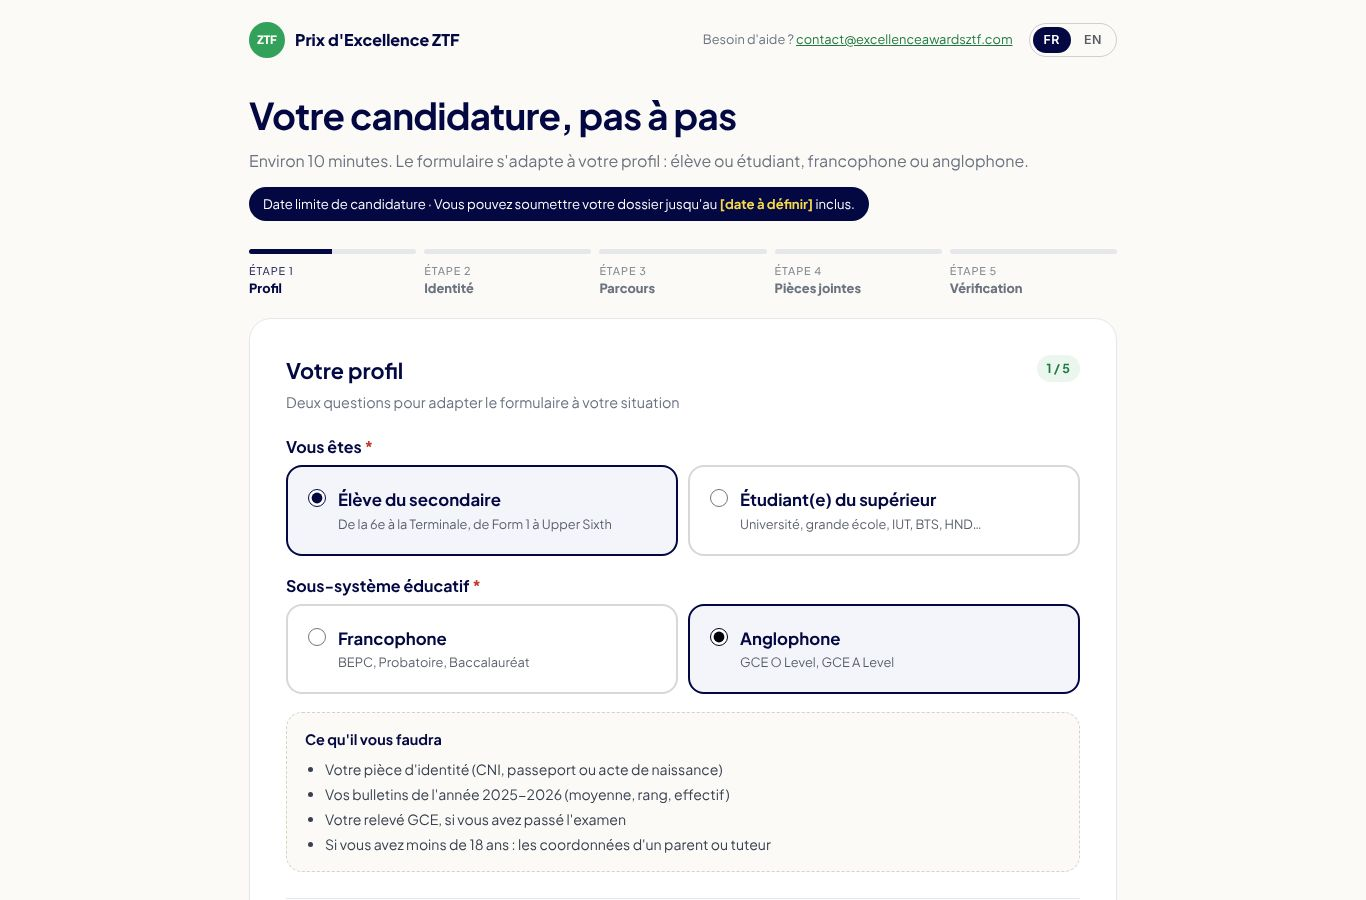
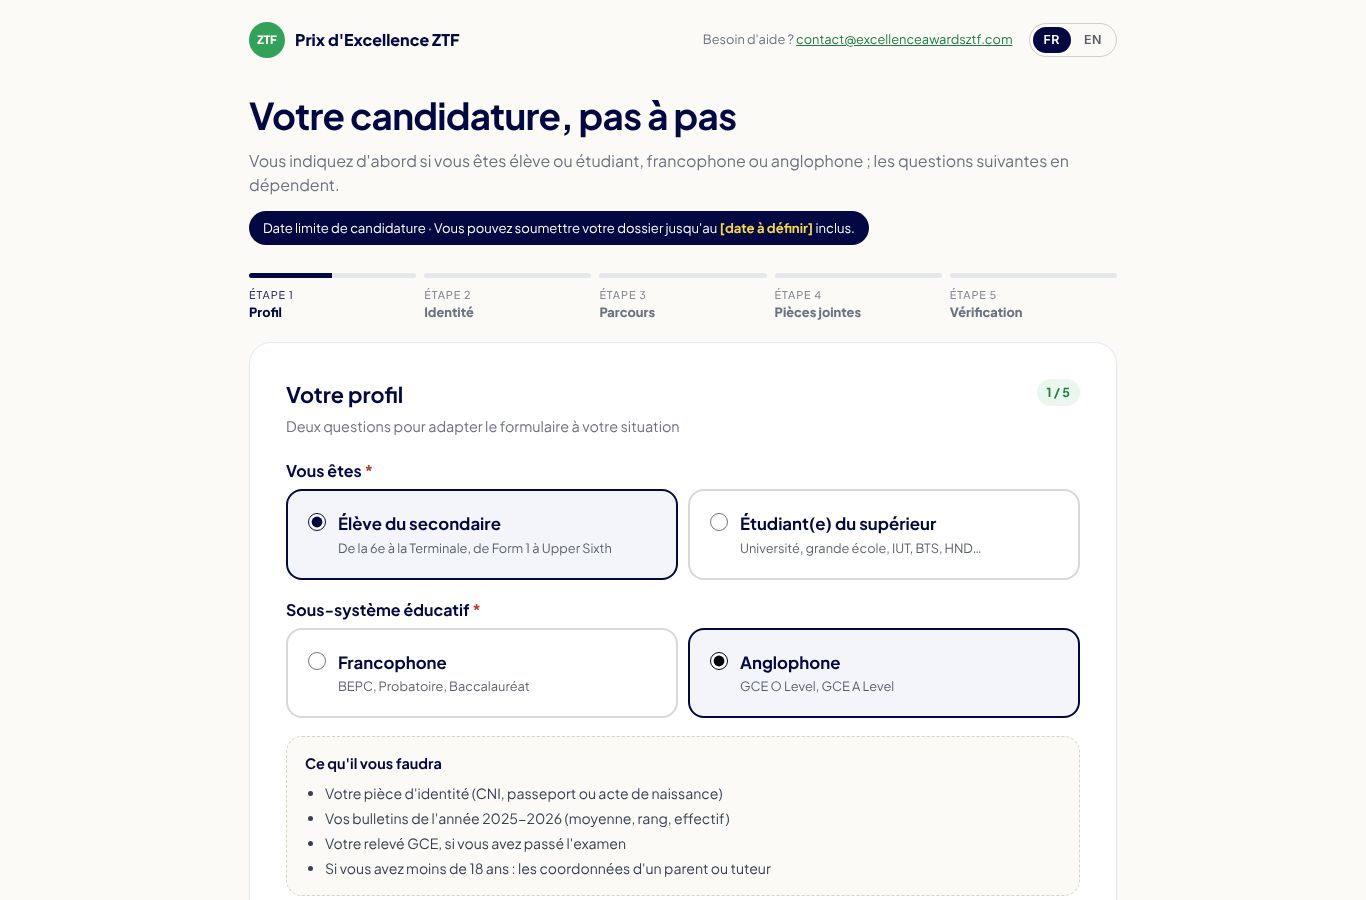
Sépare le dépôt des relevés de notes et relit les textes
- Nouveau champ obligatoire « Relevés de notes et bulletins », distinct
  du champ facultatif « Diplômes et relevés d'examens officiels »
- Dossiers de démonstration avec bulletins trimestriels / semestriels
- Relecture des textes : retrait d'une durée non sourcée, d'un slogan
  et d'étiquettes vagues dans la galerie

Claude-Session: https://claude.ai/code/session_01Mcbiq1fq7jBpc2oKkKSYz2

diff --git a/maquettes/index.html b/maquettes/index.html
@@ -31,7 +31,7 @@ main{padding:30px 16px 60px}
 </head>
 <body>
 <header><div class="in">
-  <div class="k">Fondation Zacharias Tanee Fomum · version 2</div>
+  <div class="k">Fondation Zacharias Tanee Fomum · version 3</div>
   <h1>Formulaire de candidature au Prix ZTF : 5 maquettes</h1>
   <p>Mêmes champs et même ordre que le formulaire de référence <em>africaexcellenceawards.org/candidature</em>, adaptés au Cameroun selon vos réponses. Les 5 maquettes demandent exactement les mêmes informations ; seules la mise en page et l'expérience changent.</p>
 </div></header>
@@ -43,6 +43,7 @@ main{padding:30px 16px 60px}
       <li><strong>Secondaire et supérieur</strong> : pour un élève, « Niveau » devient « Classe » (6e → Terminale ou Form 1 → Upper Sixth), « Domaine d'études » devient « Série / filière », et le classement porte sur la classe.</li>
       <li><strong>Sous-système francophone / anglophone</strong> : un élève anglophone indique en plus son dernier examen GCE et ses grades.</li>
       <li><strong>Mineurs</strong> : âge minimum abaissé à 9 ans ; sous 18 ans, un bloc « Parent ou tuteur légal » apparaît (lien, nom, téléphone, e-mail facultatif, autorisation).</li>
+      <li><strong>Relevés de notes</strong> : un champ de dépôt à part, obligatoire, pour les relevés et bulletins de l'année. Les diplômes et relevés d'examens officiels (BEPC, Bac, GCE…) ont leur propre champ, facultatif.</li>
       <li><strong>Bilingue</strong> : bouton FR / EN sur toutes les maquettes ; la maquette 3 affiche les deux langues en même temps.</li>
     </ul>
   </div>
@@ -54,7 +55,7 @@ main{padding:30px 16px 60px}
     <a class="card" href="2-parcours-guide.html"><img src="apercus/2-parcours-guide.jpg" alt="Aperçu maquette 2"><div class="b">
       <h2><span>2.</span> Parcours guidé</h2>
       <p>On commence par le profil (élève ou étudiant, francophone ou anglophone) : le formulaire filtre ensuite les établissements et annonce les pièces à préparer. 5 étapes, récapitulatif avec « Modifier » avant l'envoi.</p>
-      <div class="tags"><span>Profil d'abord</span><span>Moins d'erreurs</span><span>Rassurant pour les jeunes</span></div></div></a>
+      <div class="tags"><span>Profil d'abord</span><span>5 étapes</span><span>Récapitulatif avant envoi</span></div></div></a>
     <a class="card" href="3-bilingue-officiel.html"><img src="apercus/3-bilingue-officiel.jpg" alt="Aperçu maquette 3"><div class="b">
       <h2><span>3.</span> Bilingue officiel</h2>
       <p>Une fiche de candidature au format administratif, avec chaque libellé en français et en anglais côte à côte, comme les documents officiels camerounais. Pas de bouton de langue : tout le monde lit la même fiche.</p>
@@ -65,14 +66,14 @@ main{padding:30px 16px 60px}
       <div class="tags"><span>Smartphone</span><span>Connexions lentes</span><span>Type application</span></div></div></a>
     <a class="card" href="5-prestige.html"><img src="apercus/5-prestige.jpg" alt="Aperçu maquette 5"><div class="b">
       <h2><span>5.</span> Prestige « cérémonie »</h2>
-      <p>Bleu nuit et or, typographie à empattements, sommaire latéral en chiffres romains, chiffres clés du prix et anneau de progression : l'esprit de la cérémonie de remise des prix.</p>
-      <div class="tags"><span>Haut de gamme</span><span>Valorise le prix</span><span>Grand écran</span></div></div></a>
+      <p>Bleu nuit et or, typographie à empattements, sommaire latéral en chiffres romains, chiffres clés du prix et anneau de progression.</p>
+      <div class="tags"><span>Bleu nuit et or</span><span>Chiffres clés du prix</span><span>Grand écran</span></div></div></a>
   </div>
 
   <div class="note">
     <h3>À savoir pour tester</h3>
     <ul>
-      <li>En bas à gauche, <strong>« Maquette · pré-remplir »</strong> propose deux dossiers fictifs : un <em>élève anglophone mineur</em> (fait apparaître le bloc tuteur et les résultats GCE) et une <em>étudiante francophone</em>.</li>
+      <li>En bas à gauche, <strong>« Maquette · pré-remplir »</strong> propose deux dossiers fictifs : un <em>élève anglophone mineur</em> (bloc tuteur, résultats GCE, trois bulletins trimestriels) et une <em>étudiante francophone</em>.</li>
       <li>Essayez une date de naissance de moins de 18 ans, puis une catégorie du secondaire avec le sous-système anglophone : les blocs correspondants apparaissent.</li>
       <li>L'envoi est simulé : aucune donnée ne quitte le navigateur. Le captcha (Cloudflare Turnstile dans la référence) est représenté par un emplacement.</li>
       <li>La date limite est affichée « [date à définir] » : elle se règle à un seul endroit (<code>shared/form-data.js</code>).</li>

diff --git a/maquettes/shared/form-engine.js b/maquettes/shared/form-engine.js
@@ -18,7 +18,7 @@
   var both = document.documentElement.getAttribute("data-ztf-mode") === "both";
   var lang = both ? "both" : initialLang();
   var NP = { average: "average_not_provided", ranking: "ranking_not_provided", cohort_size: "cohort_size_not_provided" };
-  var form, fileStore = { idfile: [], transcripts: [], otherfiles: [] };
+  var form, fileStore = { idfile: [], transcripts: [], diplomas: [], otherfiles: [] };
 
   function initialLang() {
     var q = (location.search.match(/[?&]lang=(fr|en)\b/) || [])[1]; if (q) return q;
@@ -372,7 +372,7 @@
       { group: "1. " + tr("sec.identity"), items: g1 },
       { group: "2. " + tr("sec.academic"), items: g2 },
       { group: "3. " + tr("sec.attachments"), items: [[tr("lbl.idfile"), files("idfile")], [tr("lbl.transcripts"), files("transcripts")],
-        [tr("lbl.otherfiles"), files("otherfiles")], [tr("lbl.additional_notes"), v("additional_notes")]] }
+        [tr("lbl.diplomas"), files("diplomas")], [tr("lbl.otherfiles"), files("otherfiles")], [tr("lbl.additional_notes"), v("additional_notes")]] }
     ];
   }
   function renderRecap(target) {
@@ -426,13 +426,13 @@
       civility: "M.", last_name: "Nfor", first_name: "Divine Kum", birth: "2009-05-02", city: "Bamenda", phone: "6 75 22 11 00", email: "grace.nfor@exemple.com",
       cycle: "secondary", sub: "anglophone", cat: "Enseignement secondaire général", subcat: "Établissement privé protestant (presbytérien, baptiste, EEC…)",
       school: "Presbyterian Secondary School Mankon (Bamenda)", fos: "Sciences", level: "Upper Sixth", avg: "17.1 / 20", rank: "1 / 64", cohort: "64",
-      files: [["CNI_Nfor_Divine.pdf"], ["Report_card_Lower_Sixth_2025-2026.pdf", "GCE_O_Level_result_slip.pdf"], ["Olympiades_maths_2025.pdf"]],
+      files: [["Acte_naissance_Nfor_Divine.pdf"], ["Report_card_term1_2025-2026.pdf", "Report_card_term2_2025-2026.pdf", "Report_card_term3_2025-2026.pdf"], ["GCE_O_Level_result_slip.pdf"], ["Olympiades_maths_2025.pdf"]],
       notes: "Lauréat des Olympiades nationales de mathématiques 2025 (catégorie lycée)."
     } : {
       civility: "Mlle", last_name: "Ngo Bayiha", first_name: "Esther", birth: "2006-03-14", city: "Yaoundé", phone: "6 77 12 34 56", email: "esther.ngobayiha@exemple.com",
       cycle: "higher", sub: "francophone", cat: "Universités d'État (facultés)", subcat: "Sciences", school: "Université de Yaoundé I",
       fos: "Mathématiques", level: "BAC+2", avg: "17.4 / 20", rank: "2 / 214", cohort: "214",
-      files: [["CNI_Ngo_Bayiha.pdf"], ["Releve_L1_2025-2026.pdf", "Releve_L2_S1.pdf"], ["CV_Esther.pdf"]],
+      files: [["CNI_Ngo_Bayiha.pdf"], ["Releve_L2_S1_2025-2026.pdf", "Releve_L2_S2_2025-2026.pdf"], ["Baccalaureat_C_2024.pdf", "Releve_L1_2024-2025.pdf"], ["CV_Esther.pdf"]],
       notes: "Major de promotion en L1, lauréate des Olympiades nationales de mathématiques 2024."
     };
     el("civility").value = p.civility; el("last_name").value = p.last_name; el("first_name").value = p.first_name;
@@ -449,7 +449,7 @@
     el("level").value = p.level; el("field_of_study").value = p.fos; onLevel();
     el("average").value = p.avg; el("ranking").value = p.rank; el("cohort_size").value = p.cohort;
     if (pupil) { el("gce_exam").value = "GCE O Level"; updateDependent(); el("gce_results").value = "11 papers — 9 A (Maths, Add. Maths, Physics, Chemistry…), 2 B"; }
-    ["idfile", "transcripts", "otherfiles"].forEach(function (n, i) { fileStore[n] = p.files[i].map(fakeFile); syncInput(n); renderFiles(n); });
+    ["idfile", "transcripts", "diplomas", "otherfiles"].forEach(function (n, i) { fileStore[n] = p.files[i].map(fakeFile); syncInput(n); renderFiles(n); });
     el("additional_notes").value = p.notes;
     el("cgu").checked = true;
     allNames().concat(["cycle", "subsystem"]).forEach(clearError);

diff --git a/maquettes/shared/form-i18n.js b/maquettes/shared/form-i18n.js
@@ -92,7 +92,7 @@ window.ZTF_I18N = {
   "lbl.gce_exam": ["Dernier examen GCE passé", "Latest GCE examination taken"],
   "lbl.gce_results": ["Matières et grades obtenus", "Subjects and grades obtained"],
   "ph.gce_results": ["Ex : 9 papers — Maths A, English B, Physics A…", "e.g. 9 papers — Maths A, English B, Physics A…"],
-  "hint.gce": ["Recopiez les grades de votre relevé GCE (A à E, U) et joignez le relevé dans les pièces jointes.", "Copy the grades from your GCE result slip (A to E, U) and attach the slip below."],
+  "hint.gce": ["Recopiez les grades de votre relevé GCE (A à E, U) ; le relevé lui-même se joint dans « Diplômes et relevés d'examens officiels ».", "Copy the grades from your GCE result slip (A to E, U); attach the slip itself under “Certificates and official exam results”."],
 
   /* Listes */
   "ph.select": ["Sélectionnez", "Select"],
@@ -106,9 +106,12 @@ window.ZTF_I18N = {
   /* Pièces jointes */
   "lbl.idfile": ["Pièce d'identité (Passeport ou CNI)", "Identity document (passport or national ID card)"],
   "hint.idfile": ["Mineur sans CNI : acte de naissance. Formats acceptés : PDF, PNG, JPG.", "Minor without an ID card: birth certificate. Accepted formats: PDF, PNG, JPG."],
-  "lbl.transcripts": ["Diplômes, bulletins et relevés de notes ({year})", "Certificates, report cards and transcripts ({year})"],
+  "lbl.transcripts": ["Relevés de notes et bulletins ({year})", "Transcripts and report cards ({year})"],
   "lbl.transcripts.m": ["(avec classement si possible)", "(with ranking if possible)"],
-  "hint.transcripts": ["Seuls les documents du système éducatif camerounais sont acceptés. Anglophones : joignez aussi votre relevé GCE si vous avez passé l'examen.", "Only documents from the Cameroonian education system are accepted. Anglophone applicants: also attach your GCE result slip if you sat the exam."],
+  "hint.transcripts": ["Tous les bulletins ou relevés de l'année : trimestres pour un élève, semestres pour un étudiant. Seuls les documents du système éducatif camerounais sont acceptés.", "Every report card or transcript for the year: terms for a pupil, semesters for a student. Only documents from the Cameroonian education system are accepted."],
+  "lbl.diplomas": ["Diplômes et relevés d'examens officiels", "Certificates and official exam results"],
+  "lbl.diplomas.m": ["(si vous en avez : CEP, BEPC, Probatoire, Bac, GCE O/A Level, BTS, Licence…)", "(if you have any: CEP, BEPC, Probatoire, Bac, GCE O/A Level, BTS, Licence…)"],
+  "hint.diplomas": ["Les élèves anglophones qui ont passé le GCE joignent ici leur relevé GCE.", "Anglophone pupils who sat the GCE attach their GCE result slip here."],
   "lbl.otherfiles": ["Tout document utile complémentaire", "Any other useful document"],
   "lbl.otherfiles.m": ["(optionnel : CV, lettre de motivation, attestations, etc.)", "(optional: CV, cover letter, certificates, etc.)"],
   "lbl.additional_notes": ["Informations complémentaires (optionnel)", "Additional information (optional)"],

diff --git a/maquettes/shared/form-markup.js b/maquettes/shared/form-markup.js
@@ -97,7 +97,9 @@
   S.attachments =
     field("idfile", label("idfile", "lbl.idfile", 1) + drop("idfile", false, ".pdf,.png,.jpg,.jpeg", true) + hint("hint.idfile") + '<div data-ztf-filelist="idfile"></div>', "file-field") +
     field("transcripts", label("transcripts", "lbl.transcripts", 1, "lbl.transcripts.m") + hint("hint.transcripts") +
-      drop("transcripts", true, ".pdf,.png,.jpg,.jpeg", true) + '<div data-ztf-filelist="transcripts"></div>', "file-field") +
+      drop("transcripts", true, ".pdf,.png,.jpg,.jpeg", true) + '<div data-ztf-filelist="transcripts"></div>', "file-field is-key") +
+    field("diplomas", label("diplomas", "lbl.diplomas", 0, "lbl.diplomas.m") + hint("hint.diplomas") +
+      drop("diplomas", true, ".pdf,.png,.jpg,.jpeg") + '<div data-ztf-filelist="diplomas"></div>', "file-field") +
     field("otherfiles", label("otherfiles", "lbl.otherfiles", 0, "lbl.otherfiles.m") +
       drop("otherfiles", true, ".pdf,.png,.jpg,.jpeg,.doc,.docx") + '<div data-ztf-filelist="otherfiles"></div>', "file-field") +
     field("additional_notes", label("additional_notes", "lbl.additional_notes") +

diff --git a/maquettes/2-parcours-guide.html b/maquettes/2-parcours-guide.html
@@ -82,7 +82,7 @@ input:disabled,select:disabled{opacity:.55}
 window.ZTF_PAGE_I18N = {
   "p.help": ["Besoin d'aide ?", "Need help?"],
   "p.title": ["Votre candidature, pas à pas", "Your application, step by step"],
-  "p.lead": ["Environ 10 minutes. Le formulaire s'adapte à votre profil : élève ou étudiant, francophone ou anglophone.", "About 10 minutes. The form adapts to your profile: pupil or student, francophone or anglophone."],
+  "p.lead": ["Vous indiquez d'abord si vous êtes élève ou étudiant, francophone ou anglophone ; les questions suivantes en dépendent.", "First say whether you are a pupil or a student, francophone or anglophone; the next questions depend on it."],
   "p.step": ["Étape", "Step"],
   "p.s0": ["Profil", "Profile"], "p.s1": ["Identité", "Identity"], "p.s2": ["Parcours", "Background"], "p.s3": ["Pièces jointes", "Attachments"], "p.s4": ["Vérification", "Review"],
   "p.s1.d": ["Votre identité et vos coordonnées.", "Your identity and contact details."],

diff --git a/maquettes/1-classique.html b/maquettes/1-classique.html
@@ -93,7 +93,7 @@ window.ZTF_PAGE_I18N = {
 <main class="wrap">
   <div class="card">
     <div data-ztf-hide-on-success>
-      <div class="deadline">📅 <p style="margin:0"><strong data-i18n="deadline.label"></strong> — <span data-i18n-html="deadline.text"></span></p></div>
+      <div class="deadline">📅 <p style="margin:0"><strong data-i18n="deadline.label"></strong> · <span data-i18n-html="deadline.text"></span></p></div>
       <form data-ztf-form>
         <section class="sec" id="s1" data-ztf-section><div class="sec-h"><span class="n">1</span><h2 data-i18n="sec.identity"></h2></div><div data-ztf-slot="identity"></div></section>
         <section class="sec" id="s2" data-ztf-section><div class="sec-h"><span class="n">2</span><h2 data-i18n="sec.academic"></h2></div><div data-ztf-slot="subsystem"></div><div data-ztf-slot="academic"></div></section>

diff --git a/maquettes/4-mobile-first.html b/maquettes/4-mobile-first.html
@@ -75,7 +75,7 @@ input:disabled,select:disabled{background:#f2f4f7;color:#98a2b3}
 <script>
 window.ZTF_PAGE_I18N = {
   "p.sub": ["Candidature · Cameroun", "Application · Cameroon"],
-  "p.tile": ["Faites reconnaître votre excellence", "Get your excellence recognised"],
+  "p.tile": ["Candidature 2026-2027", "2026-2027 application"],
   "p.tile.d": ["Élèves et étudiants, francophones et anglophones : remplissez les 3 rubriques. Vos réponses sont conservées quand vous changez de rubrique.", "Pupils and students, francophone and anglophone: fill in the 3 sections. Your answers are kept when you switch sections."],
   "p.until": ["⏰ Date limite :", "⏰ Deadline:"],
   "p.todo": ["À remplir", "To do"], "p.done": ["✓ Complet", "✓ Done"],

diff --git a/README.md b/README.md
@@ -21,10 +21,11 @@ Cette étape propose **5 maquettes** du formulaire : ouvrir [`maquettes/index.ht
 | Langue | Français + anglais |
 | Mineurs | Âge minimum 9 ans ; sous 18 ans, parent ou tuteur obligatoire |
 | Résultats | Francophone : moyenne /20, rang, effectif. Anglophone : moyenne et rang du bulletin, plus grades GCE si examen passé |
+| Relevés de notes | Champ de dépôt séparé et obligatoire ; diplômes dans un champ facultatif |
 
 ## Champs du formulaire
 
-Les champs 1-8, 13-20 et 23-27 suivent la référence [africaexcellenceawards.org/candidature](https://africaexcellenceawards.org/candidature) ; les autres viennent des décisions ci-dessus.
+Les champs 1-8, 13-20, 23 et 26-28 suivent la référence [africaexcellenceawards.org/candidature](https://africaexcellenceawards.org/candidature) ; les autres viennent des décisions ci-dessus. La référence n'a qu'un champ « Diplômes et relevés de notes » : il est ici coupé en deux (24 et 25).
 
 | # | Section | Champ | Obligatoire |
 |---|---|---|---|
@@ -44,10 +45,11 @@ Les champs 1-8, 13-20 et 23-27 suivent la référence [africaexcellenceawards.or
 | 21 | ↳ si secondaire anglophone | Dernier examen GCE passé (aucun / O Level / A Level) | oui |
 | 22 | ↳ si examen GCE passé | Matières et grades obtenus | oui |
 | 23 | Pièces jointes | Pièce d'identité (Passeport ou CNI ; acte de naissance pour un mineur) : PDF, PNG, JPG | oui |
-| 24 | | Diplômes, bulletins et relevés de notes (2025-2026) | oui |
-| 25 | | Tout document utile complémentaire | non |
-| 26 | | Informations complémentaires | non |
-| 27 | — | Acceptation des CGU et de la Politique de Confidentialité | oui |
+| 24 | | Relevés de notes et bulletins (2025-2026), plusieurs fichiers | oui |
+| 25 | | Diplômes et relevés d'examens officiels (CEP, BEPC, Probatoire, Bac, GCE, BTS, Licence…) | non |
+| 26 | | Tout document utile complémentaire | non |
+| 27 | | Informations complémentaires | non |
+| 28 | Validation | Acceptation des CGU et de la Politique de Confidentialité | oui |
 
 Les listes complètes (en français et en anglais) sont dans [`maquettes/shared/form-data.js`](maquettes/shared/form-data.js).
 
